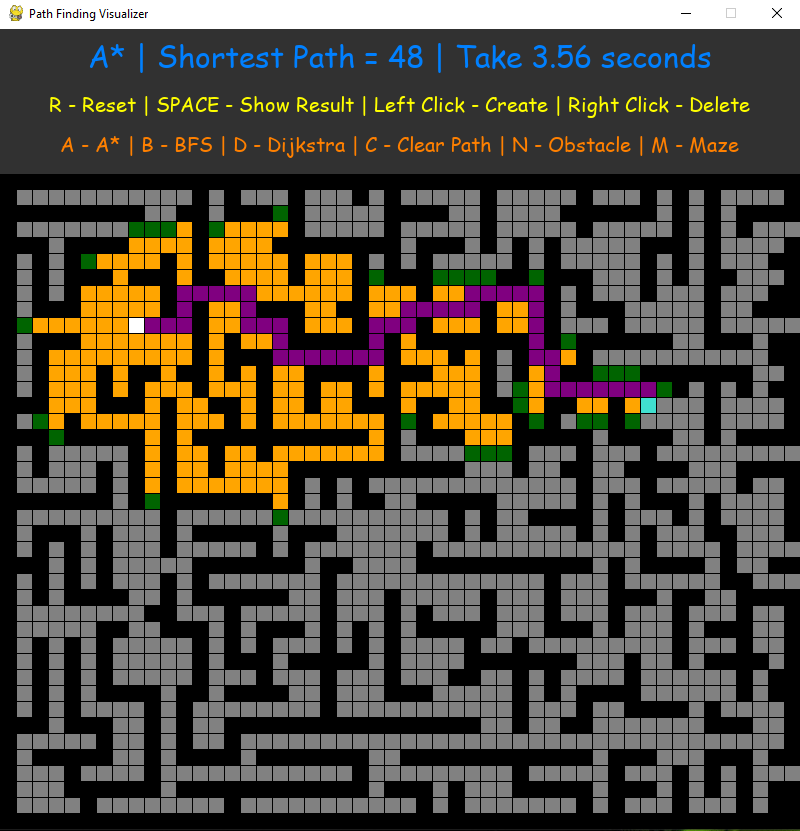
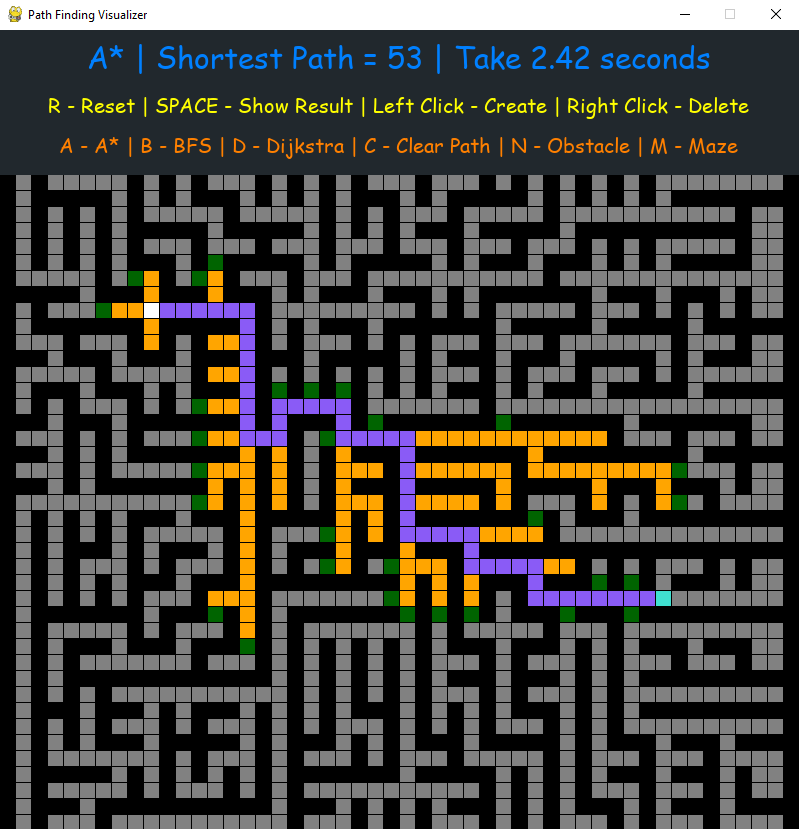
fix error in path

diff --git a/Path.py b/Path.py
@@ -18,17 +18,18 @@ WIN = pygame.display.set_mode((WIDTH, WIDTH))
 pygame.display.set_caption("Path Finding Visualizer")
 
 # Initial Colors
-RED = (255, 128, 0)
-GREEN = (0, 100, 0)
-BLUE = (0, 128, 255)
-YELLOW = (255, 255, 0)
-WHITE = (255, 255, 255)
-DARK = (49, 49, 49)
-BLACK = (0, 0, 0)
-PURPLE = (128, 0, 128)
-ORANGE = (255, 165, 0)
-GREY = (129, 129, 129)
+BLACK     = (0, 0, 0)
+GREEN     = (0, 100, 0)
+DARK      = (49, 49, 49)
+DARKER    = (33, 40, 45)
+ORANGE    = (255, 165, 0)
+RED       = (255, 128, 0)
+YELLOW    = (255, 255, 0)
+BLUE      = (0, 128, 255)
+PURPLE    = (138, 91, 246)
 TURQUOISE = (64, 224, 208)
+GREY      = (129, 129, 129)
+WHITE     = (255, 255, 255)
 
 # Fonts used in UI
 LARGE_FONT = pygame.font.SysFont('comicsans', 30)
@@ -334,7 +335,7 @@ def draw_grid(win, rows, width):
 
 # draw font and list animation
 def draw_UI(window, algo_name, time, length):
-    pygame.draw.rect(window, DARK, (0, 0, WIDTH, 145))
+    pygame.draw.rect(window, DARKER, (0, 0, WIDTH, 145))
 
     title = LARGE_FONT.render(f"{algo_name} | Shortest Path = {length} | Take {time} seconds", 1, BLUE)
     window.blit(title, (WIDTH / 2 - title.get_width() / 2, 5))
@@ -408,10 +409,12 @@ def main(win, width):
                 if not start and spot != end:
                     start = spot
                     start.make_start()
+                    print(f"start = {start.get_pos()}")
 
                 elif not end and spot != start:
                     end = spot
                     end.make_end()
+                    print(f"end = {end.get_pos()}")
 
                 elif spot != end and spot != start:
                     spot.make_barrier()
@@ -483,9 +486,9 @@ def main(win, width):
                             if maze[row][col] == 1:
                                 grid[row][col + 2].make_barrier()
 
-                    # Handle right-side error
+                    # Handle right-side
                     for row in range(len(maze)):
-                        if not grid[-3][row].is_barrier:
+                        if not grid[-3][row].is_barrier():
                             grid[-2][row].reset()
 
                 if event.key == pygame.K_a:          # A - A*

diff --git a/utils/Maze.py b/utils/Maze.py
@@ -77,7 +77,7 @@ class Map:
         self.set_map(2 * x + 1, 2 * y + 1, 0)
 
         checklist = [(x, y)]
-        print(f"start = {checklist[0][0] + 1, checklist[0][1] + 1}")
+        print(f"Suggest Start = {checklist[0][0] + 1, checklist[0][1] + 1}")
 
         # select a random entry from checklist
         while checklist:
